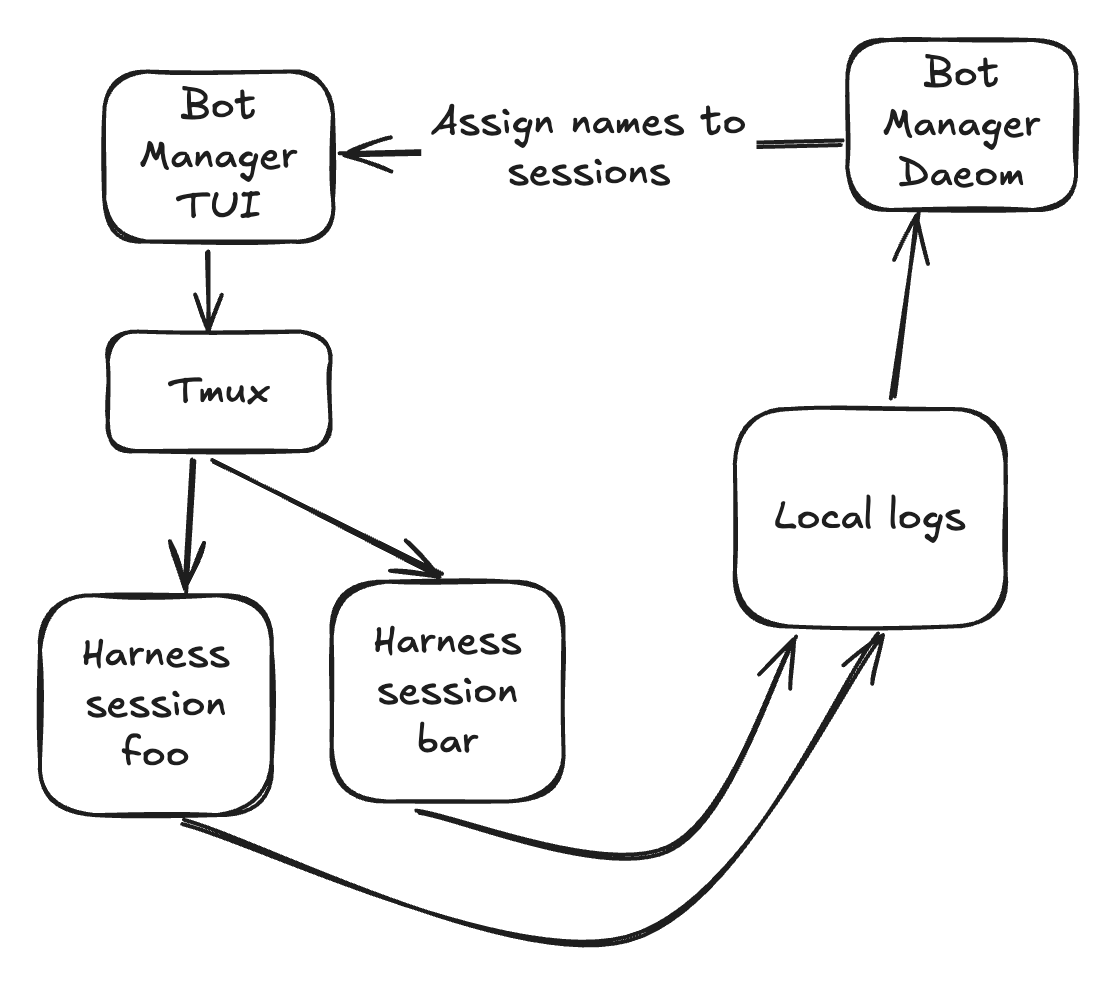
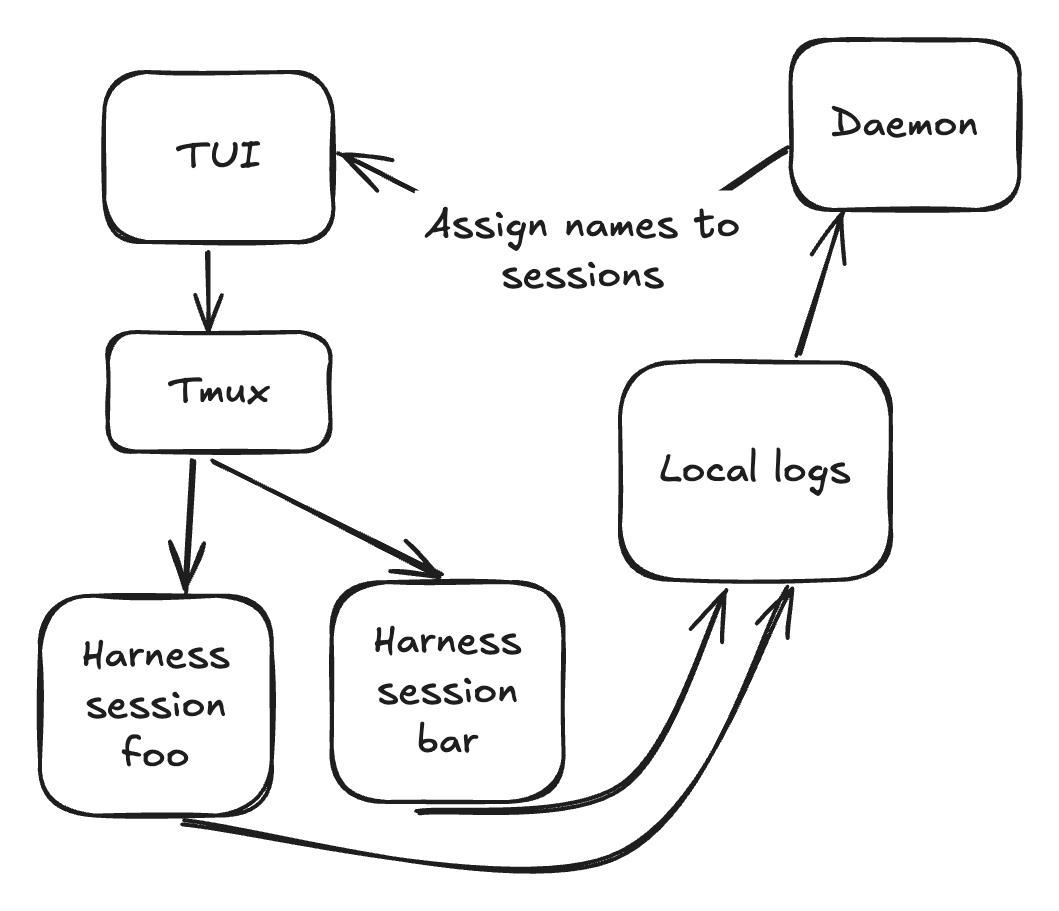
Add bot manager architecture diagram

diff --git a/blog/multi-agent-orchestration.md b/blog/multi-agent-orchestration.md
@@ -28,6 +28,8 @@ I built a central Tmux dashboard that snooped on local harness logs to name sess
 
 ![bot-manager-screenshot](/diagrams/multi-agent-orchestration/bot-manager-screenshot.png)
 
+![bot-manager](/diagrams/multi-agent-orchestration/bot-manager.png)
+
 I eventually got frustrated. Sessions would do some useful work, ask for a decision, and wait until I paged back to it. I was spending way too much time tabbing through sessions (which I could now easily find, at least), and giving agents some variation of "keep working". It also become very difficult to keep track of the higher level goals I was working towards and understand how the different sessions in play fit together..
 
 ## Stage 4: Multi agent
